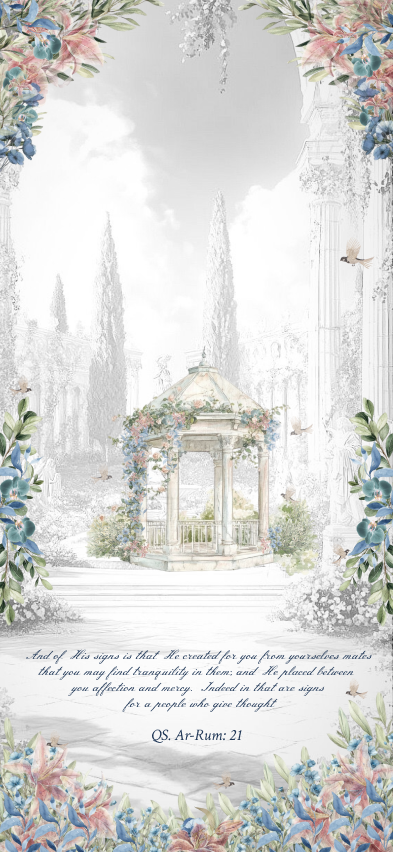
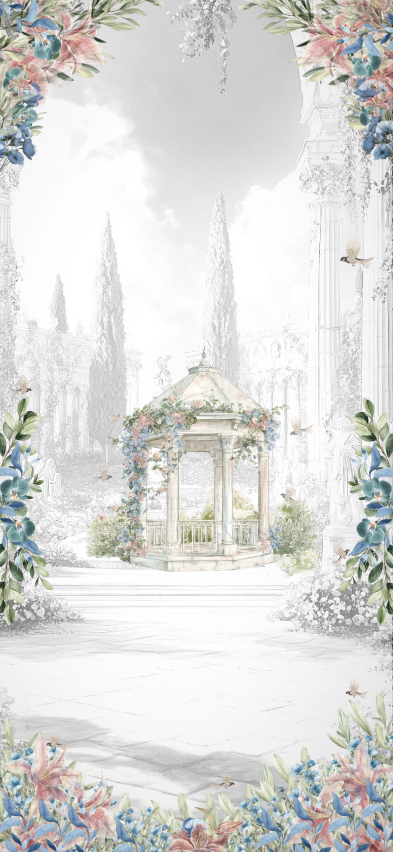
update dashboard image to text

Changed region(s): [[0.0916, 0.7629, 0.9466, 0.885]]

diff --git a/src/app/page.tsx b/src/app/page.tsx
@@ -19,7 +19,7 @@ import Opening from "@/features/index/components/opening/opening";
 import dynamic from "next/dynamic";
 import SplashScreen from "@/features/index/components/splash-screen/splash-screen";
 import { Toaster } from "@/components/ui/sonner";
-import { Geist, Geist_Mono, Merriweather, Pinyon_Script } from "next/font/google";
+import { Geist, Geist_Mono, Meie_Script, Merriweather, Pinyon_Script } from "next/font/google";
 import "@/app/globals.css";
 
 // Daftarkan plugin
@@ -47,6 +47,12 @@ const merriweather = Merriweather({
   variable: "--merriweather",
   subsets: ["cyrillic", "cyrillic-ext", "latin", "latin-ext", "vietnamese"],
   weight: ["300", "400", "700", "900"],
+});
+
+const meieScript = Meie_Script({
+  variable: "--meie-script",
+  subsets: ["latin", "latin-ext"],
+  weight: ["400"],
 });
 
 export default function Home() {
@@ -248,10 +254,9 @@ export default function Home() {
 
 	return (
 		<body
-			className={`${geistSans.variable} ${geistMono.variable} ${pinyonScript.variable} ${merriweather.variable} antialiased relative overflow-x-hidden`}
+			className={`${geistSans.variable} ${geistMono.variable} ${pinyonScript.variable} ${merriweather.variable} ${meieScript.variable} antialiased relative overflow-x-hidden`}
 		>
 			<SplashScreen />
-			
 
 			<main ref={mainContainer} className="relative min-h-screen max-w-[440px] overflow-x-hidden mx-auto bg-white">
 				<section id="opening" className="absolute top-0 min-h-screen w-full bg-[url(/backgrounds/opening.webp)] bg-cover bg-center flex flex-col items-center justify-center" style={{ zIndex: 1 }}>

diff --git a/src/features/index/components/dashboard/dashboard-static.tsx b/src/features/index/components/dashboard/dashboard-static.tsx
@@ -50,12 +50,14 @@ export default function Dashboard() {
 
   return (
     <div className="text-[#213857] text-center">
-      <p className="font-merriweather text-3 font-bold text-lg ms-20 -mb-2">THE WEDDING OF</p>
+      <p className="font-merriweather text-3 font-bold text-lg ms-20 -mb-2 mt-10 xs:mt-24">THE WEDDING OF</p>
       <h1 className="font-pinyonScript text-1 text-7xl xs:text-8xl -mb-1 mr-32">Bima</h1>
-      <h1 className="font-pinyonScript text-2 text-7xl xs:text-8xl -mt-1 mb-64 ms-32">Nafia</h1>
+      <h1 className="font-pinyonScript text-2 text-7xl xs:text-8xl -mt-1 mb-52 xs:mb-64 ms-32">Nafia</h1>
       {/* <p className="font-merriweather text-4 md:text-sm">Kepada Yth.</p>
       <p className="font-merriweather text-4 text-sm mb-8">Bapak/Ibu Tamu Undangan</p>
       <p className="font-merriweather text-4 text-lg font-bold">{guest?.name}</p> */}
+      <p className="font-meieScript text-xl px-10 mb-6">And of His signs is that He created for you from yourselves mates that you may find tranquility in them; and He placed between you affection and mercy. Indeed in that are signs for a people who give thought</p>
+      <p className="font-merriweather font-bold text-xl">QS. Ar-Rum: 21</p>
     </div>
   );
 }

diff --git a/next.config.ts b/next.config.ts
@@ -2,6 +2,15 @@ import type { NextConfig } from "next";
 
 const nextConfig: NextConfig = {
     reactStrictMode: false,
+        async redirects() {
+        return [
+            {
+                source: '/v2',
+                destination: '/',
+                permanent: true, // gunakan true untuk redirect 308 (permanent), false untuk 307 (temporary)
+            },
+        ]
+    },
 };
 
 export default nextConfig;

diff --git a/tailwind.config.ts b/tailwind.config.ts
@@ -62,6 +62,7 @@ export default {
         geistMono: ["var(--font-geist-mono)"],
         pinyonScript: ["var(--pinyon-script)"],
         merriweather: ["var(--merriweather)"],
+        meieScript: ["var(--meie-script)"],
       },
     },
     screens: {
